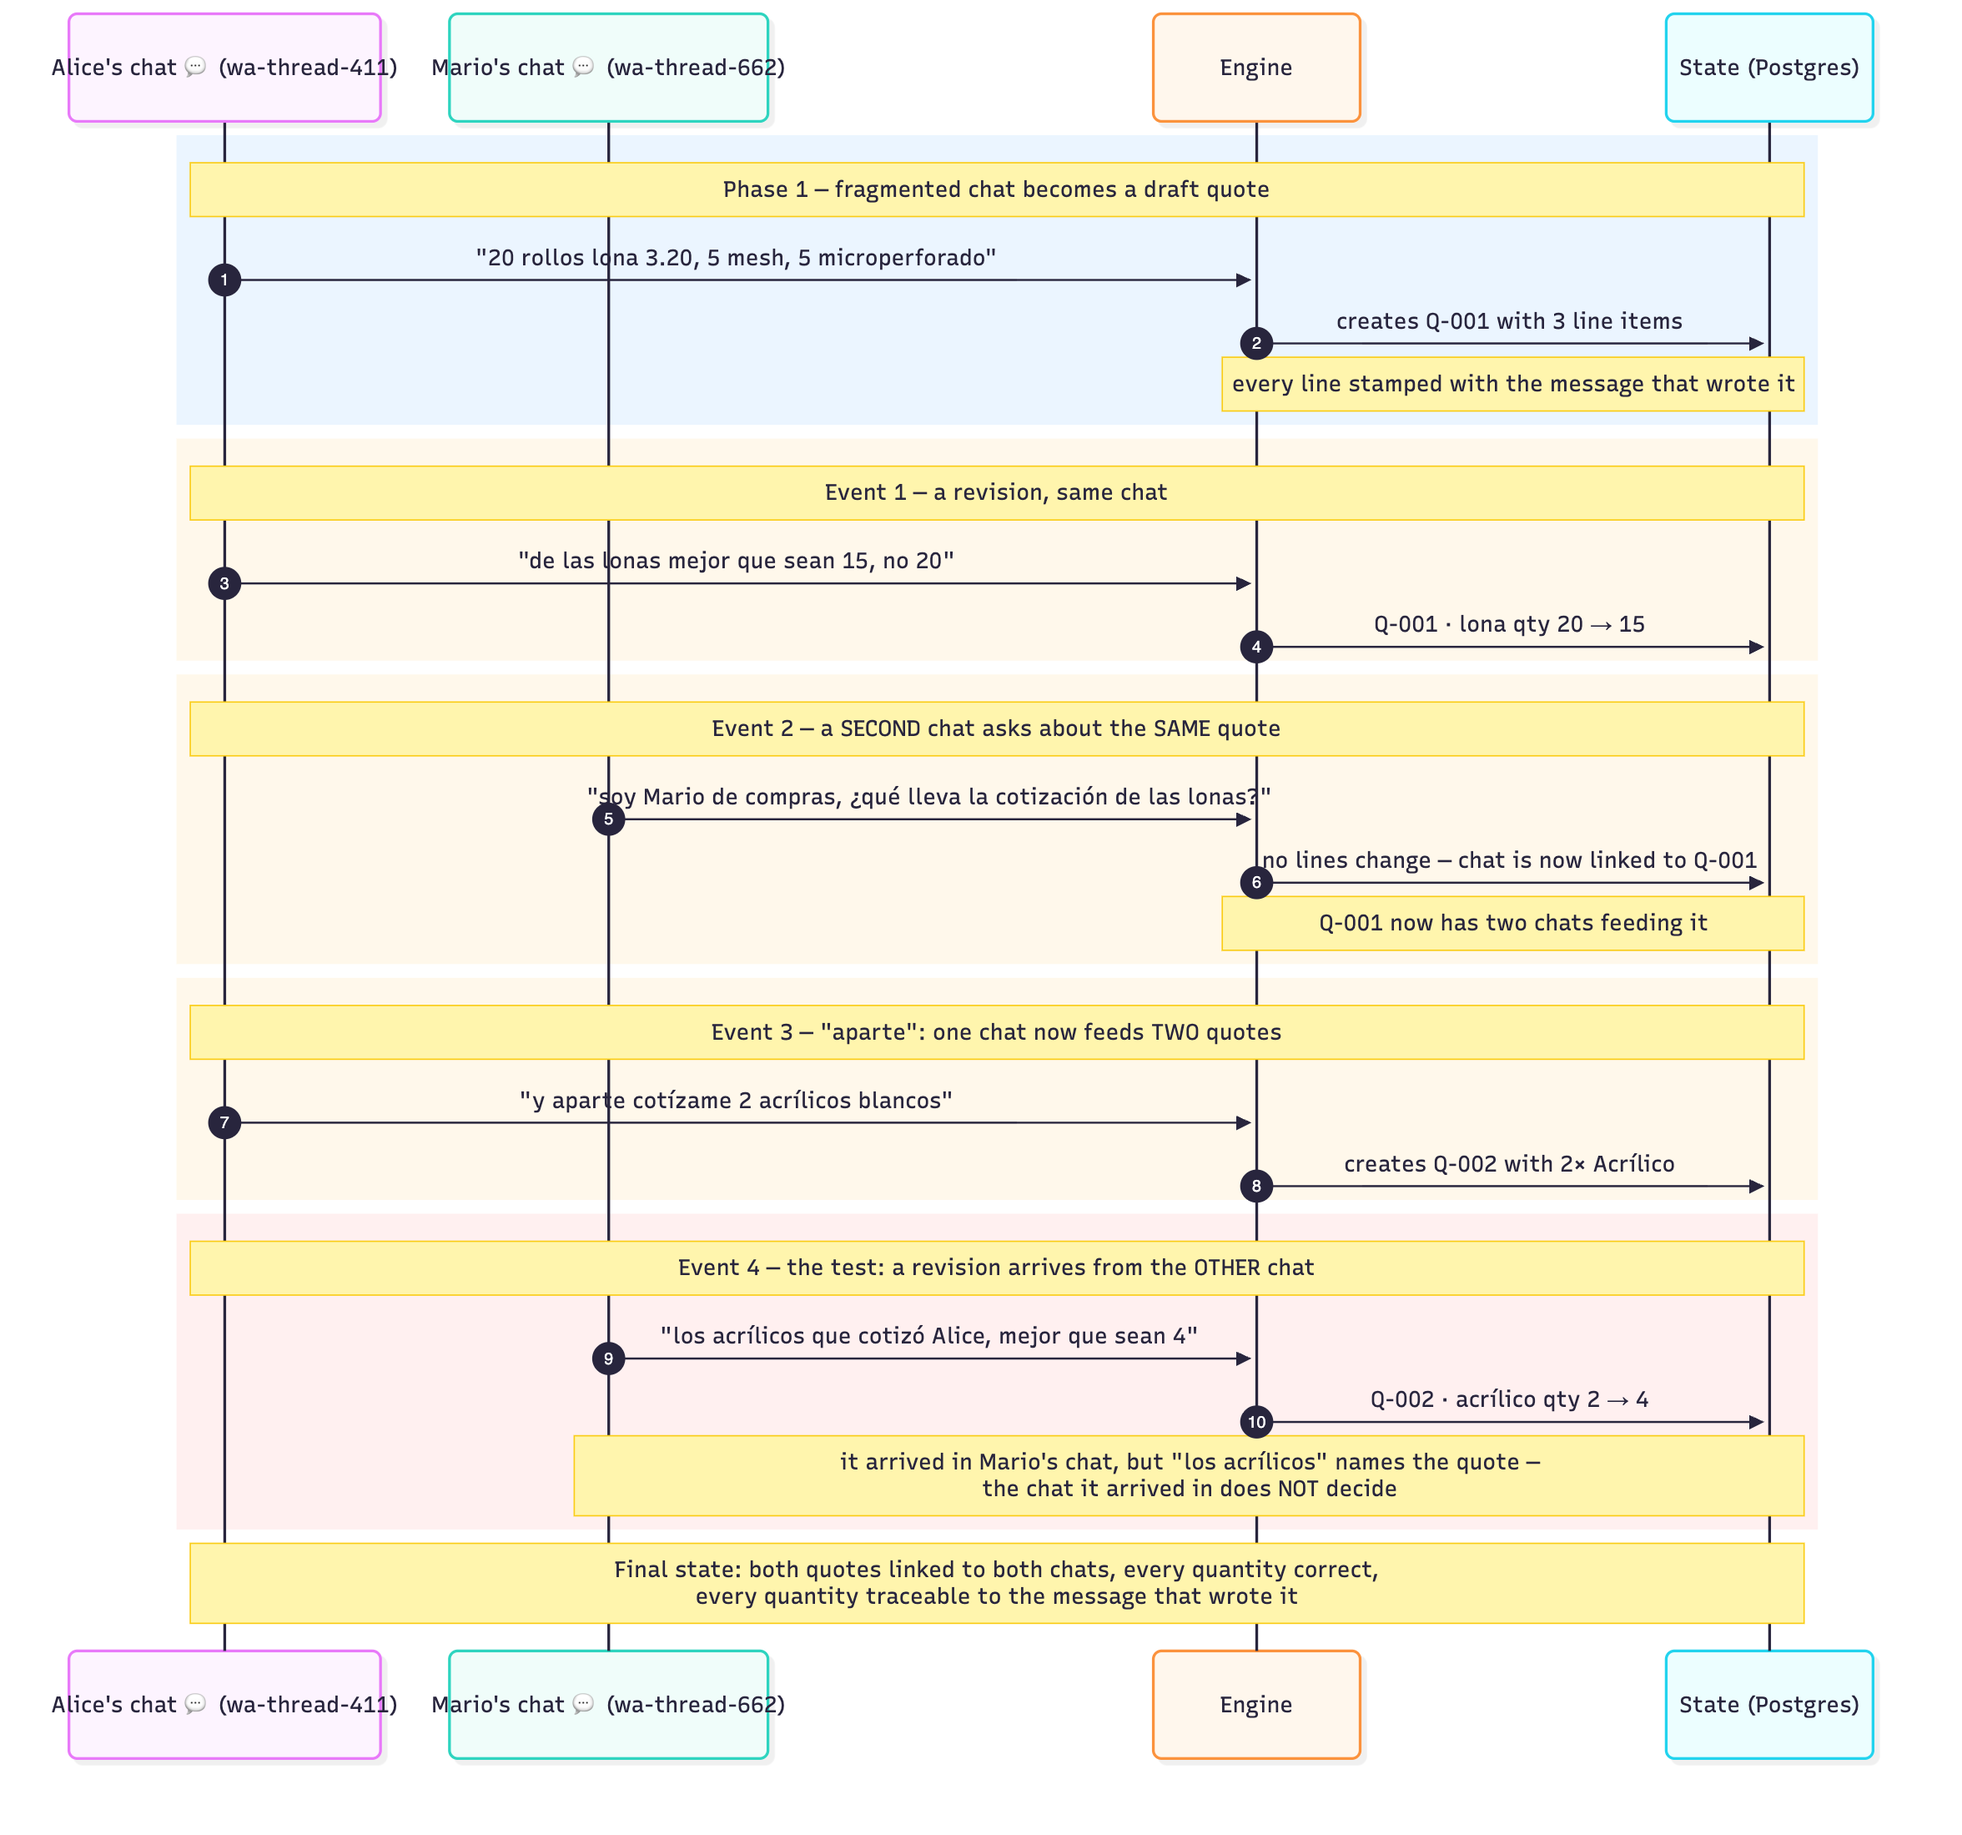
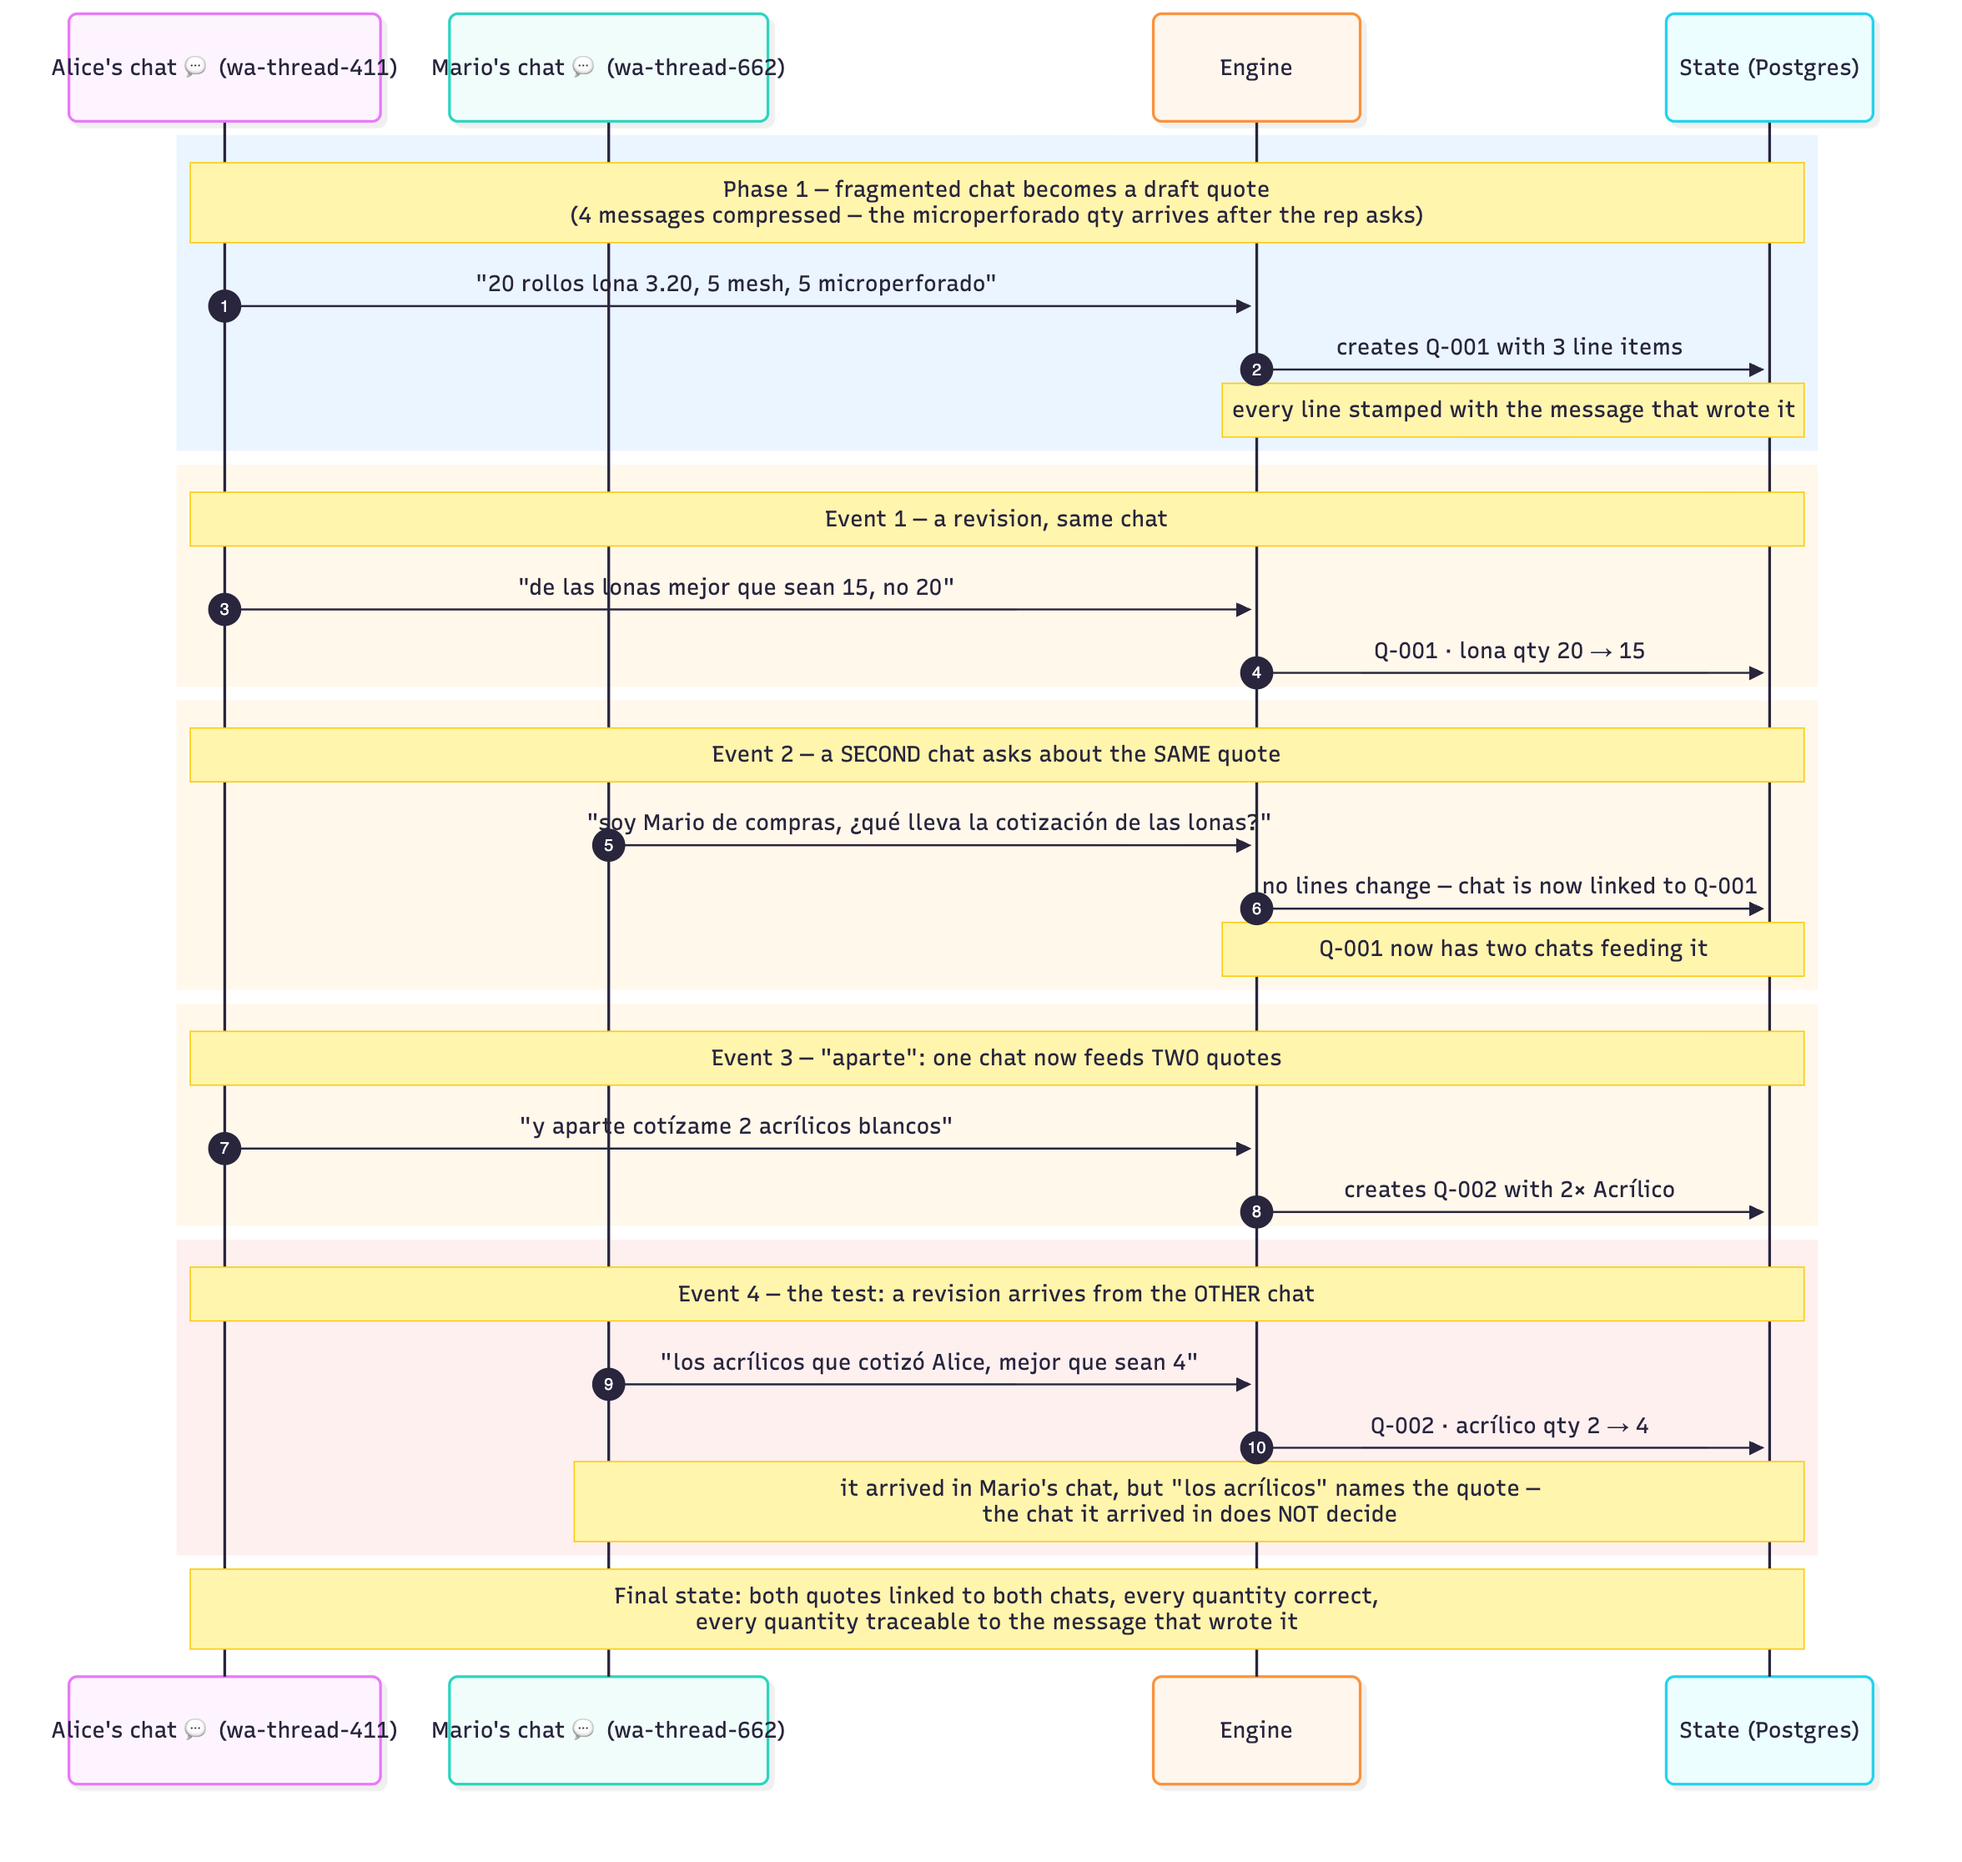
docs: fix diagram accuracy and slide readability
- Pipeline: restore dedup exit (webhook retry = free no-op) on slides,
  add cancel to APPLY box, edge label 'invalid / unclear' covers all
  failure modes, shrink validation diamond (2-line label)
- Rename 02-pipeline-compact.mmd -> 02-pipeline.mmd so slides and the
  stale PNG stay in sync
- Sequence: Phase 1 note states 4 messages compressed (micro qty arrives
  after the rep asks); presenter notes fix arrow/message claim
- ER: QUOTE_CONVERSATIONS attribute corrected to metadata (JSONB) -
  matches schema; notes mention reviews/dedupe/catalog tables
- At-scale: fix inverted layout (Today now above 'under pressure'),
  connect cache and metric boxes, wider wrapping config for this diagram

Changed region(s): [[0.0931, 0.0309, 0.9311, 0.6185], [0.0931, 0.6185, 0.9311, 0.7422], [0.3104, 0.7422, 0.9001, 0.8968]]

diff --git a/docs/presentation-diagrams.md b/docs/presentation-diagrams.md
@@ -19,7 +19,7 @@ sequenceDiagram
     participant S as State (Postgres)
 
     rect rgb(235, 245, 255)
-    Note over A,S: Phase 1 — fragmented chat becomes a draft quote
+    Note over A,S: Phase 1 — fragmented chat becomes a draft quote<br/>(4 messages compressed — the microperforado qty arrives after the rep asks)
     A->>E: "20 rollos lona 3.20, 5 mesh, 5 microperforado"
     E->>S: creates Q-001 with 3 line items
     Note over E,S: every line stamped with the message that wrote it
@@ -55,9 +55,10 @@ sequenceDiagram
 ```
 
 **Presenter notes:** open with Izzy keeping all this "in her head" today; each
-numbered arrow is one WhatsApp message. The naive designs die here: a chat
-holding a `quote_id` breaks at Event 3; a quote holding a `chat_id` breaks at
-Event 2.
+numbered pair is one message (odd) and the state it wrote (even) — Phase 1
+compresses four messages into one pair (the microperforado quantity arrives
+after the rep asks). The naive designs die here: a chat holding a `quote_id`
+breaks at Event 3; a quote holding a `chat_id` breaks at Event 2.
 
 ---
 
@@ -74,8 +75,8 @@ flowchart TD
     DUP -- "no" --> CTX["🔍 Build context<br/>customer · open quotes + lines<br/>last 20 messages of each linked chat"]
     CTX --> LLM["🧠 One LLM call<br/>classify + extract:<br/>intent · confidence · target quote · line items"]
     LLM --> VAL{"⚙ Deterministic validation<br/>SKUs exist in catalog? quantities sane?<br/>confidence ≥ 0.7? target quote open?"}
-    VAL -- "unclear intent,<br/>low confidence" --> REVIEW["⏸ Parked for human review<br/>nothing pushed toward the ERP<br/>on a guess"]
-    VAL -- "valid" --> APPLY["✍ Apply with code<br/>upsert lines · stamp provenance<br/>write chat ↔ quote links"]
+    VAL -- "invalid: unclear, unknown SKU,<br/>bad quantity, unknown target" --> REVIEW["⏸ Parked for human review<br/>nothing pushed toward the ERP<br/>on a guess"]
+    VAL -- "valid" --> APPLY["✍ Apply with code<br/>upsert lines · cancel · stamp provenance<br/>write chat ↔ quote links"]
     APPLY --> DB[("🗄 Postgres<br/>survives restarts")]
     REVIEW --> HUMAN["👤 Human resolves:<br/>apply · new quote · discard"]
     HUMAN --> DB
@@ -88,6 +89,8 @@ flowchart TD
 code decides*. Model errors become review items, never corrupt quotes. CEO
 framing: the review queue is what makes this deployable — an ambiguous
 "mejor cancelalo" never cancels the wrong quote; it asks a human instead.
+And when the customer *names* the quote ("cancela la Q-002"), cancellation
+executes immediately with full provenance.
 
 ---
 
@@ -109,7 +112,7 @@ erDiagram
         string last_changed_by_message_id "which message last revised it"
     }
     QUOTE_CONVERSATIONS {
-        string message_id "which message created the link"
+        string metadata "JSONB · stores the message_id that created the link"
     }
     QUOTES ||--o{ QUOTE_CONVERSATIONS : ""
     CONVERSATIONS ||--o{ QUOTE_CONVERSATIONS : ""
@@ -118,7 +121,9 @@ erDiagram
 **Presenter notes:** the join table carries provenance too — you can answer
 "which message linked Mario's chat to Q-001?" The line items keep per-line
 message provenance, so a human sees exactly what changed and why. Two shortcuts
-both break; the join table means all four events are just rows.
+both break; the join table means all four events are just rows. Reviews, the
+dedupe gate and the catalog are plain tables alongside it — the join table is
+the decision.
 
 ---
 
@@ -128,16 +133,18 @@ If the CEO/CTO probe on "what happens at 1,000 conversations/day", have this
 one ready — but don't lead with it:
 
 ```mermaid
-flowchart LR
+flowchart TB
     subgraph today["Today (1,000/day fits)"]
         W1["single process"] --> PG[(Postgres)]
     end
+    PG -.->|"1,000+/day: insert a queue"| Q
     subgraph next["First changes under pressure"]
         Q["queue partitioned by<br/>conversation_id"] --> W2["worker per chat<br/>no interleaved revisions"]
         W2 --> PG2[(Postgres)]
-        CACHE["prompt cache:<br/>static catalog + rules = 0.1× cost<br/>per-token window"]
+        CACHE["prompt cache: static catalog + rules<br/>stable turns read at 0.1× cost<br/>window: last 20 messages per chat"]
+        CACHE -.->|"feeds every call"| W2
     end
-    METRIC["📈 metric that matters:<br/>review-queue depth =<br/>how good the prompts are"]
+    Q -.->|"depth = prompt quality"| METRIC["📈 metric that matters:<br/>review-queue depth"]
 ```
 
 Suggested story: cost dominates first (mitigated by prompt-cache shape), then
